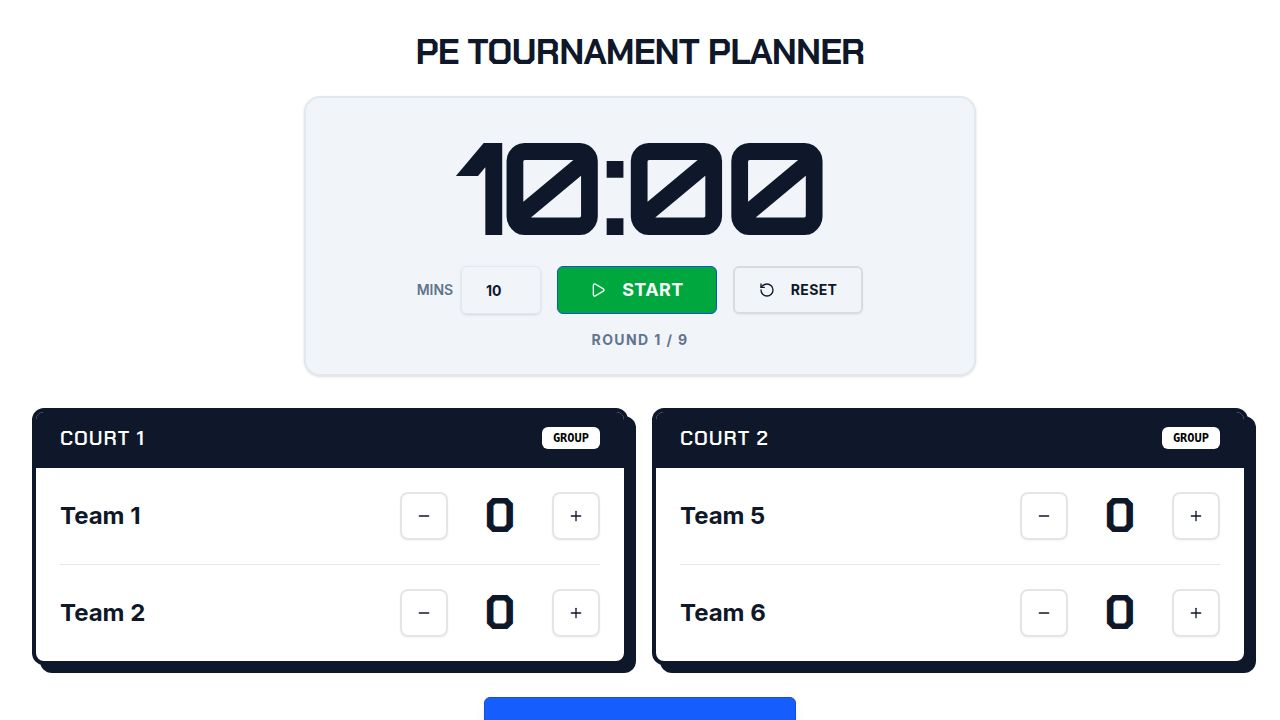
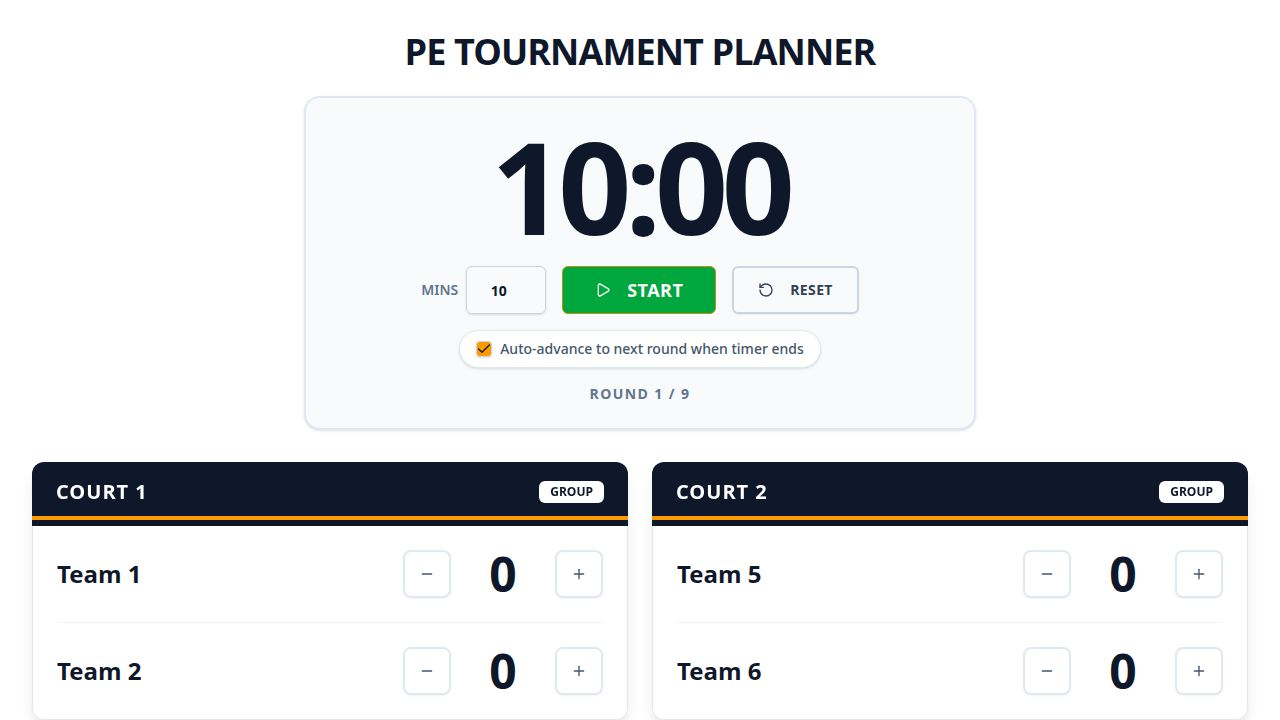
Restart timer automatically after advancing to the next round
Update `handleNextRound` function in `client/src/pages/tournament.tsx` to accept an `isAutoAdvance` flag, enabling automatic timer restart and reset upon advancing to the next round when auto-advance is enabled.

Replit-Commit-Author: Agent
Replit-Commit-Session-Id: b8095c07-802f-401c-b0c4-b0059ddc80d8
Replit-Commit-Checkpoint-Type: full_checkpoint
Replit-Commit-Event-Id: 9b217422-acba-4c80-a22b-5eddc6b3c8b3
Replit-Commit-Screenshot-Url: https://storage.googleapis.com/screenshot-production-us-central1/39688c16-30d2-4667-acdb-38e875e7ebb7/b8095c07-802f-401c-b0c4-b0059ddc80d8/H9F5Xqa
Replit-Helium-Checkpoint-Created: true

diff --git a/client/src/pages/tournament.tsx b/client/src/pages/tournament.tsx
@@ -83,25 +83,7 @@ export default function TournamentPage() {
              // Use setTimeout to allow the state updates from timer stopping to settle/process
              // and to avoid direct state loop.
              setTimeout(() => {
-                 handleNextRound();
-                 // If we are NOT finished (meaning currentRound < 9 before update, or < 10 after update), start timer.
-                 // handleNextRound increments currentRound. 
-                 // So if currentRound was < 9, it becomes currentRound + 1. 
-                 // If currentRound was 9, it becomes 10 (finished).
-                 // We need to check the *new* state or predict it.
-                 // Since handleNextRound is async in state setting, we can't check currentRound immediately.
-                 // But we know the logic: if currentRound < 9, we advance and start timer.
-                 if (currentRoundRef.current < 9) {
-                     // Start next timer automatically
-                     // We need to wait for next round games to be set? 
-                     // Actually just restarting the timer is enough, the new games will render.
-                     // But we need to reset the timer time first.
-                     // handleNextRound resets timer to minutes * 60 via resetTimer(), but that stops it.
-                     // We want to START it.
-                     setTimeout(() => {
-                         toggleTimer();
-                     }, 500); // Small delay to make it feel natural
-                 }
+                 handleNextRound(true); // Pass true to indicate auto-advance
              }, 1000);
           }
         } else {
@@ -232,34 +214,8 @@ export default function TournamentPage() {
       }));
   };
 
-  const handleNextRound = () => {
+  const handleNextRound = (isAutoAdvance = false) => {
     // 1. Mark current round games as finished
-    // Need to use functional update to access latest state if called from closure, 
-    // BUT calculateStandings needs the updated games.
-    // So we do it in two steps or use a ref for games (complicated).
-    // React state updates are batched. 
-    // We can rely on 'games' being current if this is triggered by button click.
-    // If triggered by timer (via setTimeout), 'games' might be stale in the closure?
-    // No, because handleNextRound is recreated on every render if not memoized, 
-    // so if we call it from the component scope it has access to current 'games'.
-    // BUT if we call it from setTimeout inside useEffect which has [] deps (or timerActive deps), 
-    // we might have stale 'handleNextRound'.
-    // Actually, I didn't wrap handleNextRound in useCallback. 
-    // So if I call it from inside the useEffect closure, it will be the handleNextRound from the *render cycle where the effect started*.
-    // Which means 'games' will be stale (from when timer started).
-    // FIX: Use functional state update for setGames, AND perform logic inside the setter or a separate effect?
-    // OR: Add 'games' to useEffect dependency? No, that restarts timer on every score change.
-    // BEST FIX: Use a ref for games.
-    
-    // Actually, I'll implement the "Ref for games" pattern to be safe.
-    // But since I can't easily refactor everything now, I'll rely on a simpler trick:
-    // Pass the games to handleNextRound? No.
-    // Let's use a ref for games.
-    
-    // ... wait, I can just use functional updates for setGames, 
-    // but I need the *result* of the update to calculate standings.
-    // I will use a ref for the latest games state.
-    
     const currentGames = gamesRef.current; // Use the ref!
 
     const updatedGames = currentGames.map(g => 
@@ -309,6 +265,15 @@ export default function TournamentPage() {
     } else {
         setCurrentRound(prev => prev + 1);
         resetTimer();
+        
+        if (isAutoAdvance) {
+            // Wait for state to settle then restart timer
+            setTimeout(() => {
+                initAudio();
+                endTimeRef.current = Date.now() + (timerMinutes * 60 * 1000);
+                setTimerActive(true);
+            }, 500);
+        }
     }
   };
 
@@ -540,7 +505,7 @@ export default function TournamentPage() {
              <Button 
              size="lg" 
              className="h-16 px-12 text-2xl font-bold uppercase tracking-widest bg-amber-500 hover:bg-amber-600 text-slate-900 shadow-lg cursor-pointer transform hover:scale-105 transition-all"
-             onClick={handleNextRound}
+             onClick={() => handleNextRound(false)}
            >
              {currentRound === 9 ? "Finish Tournament" : "Next Round"} <ChevronRight className="ml-2 h-8 w-8" />
            </Button>
